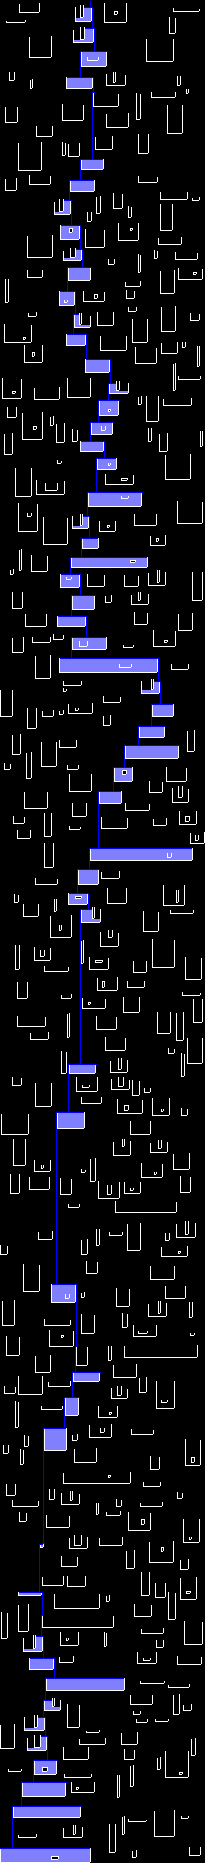
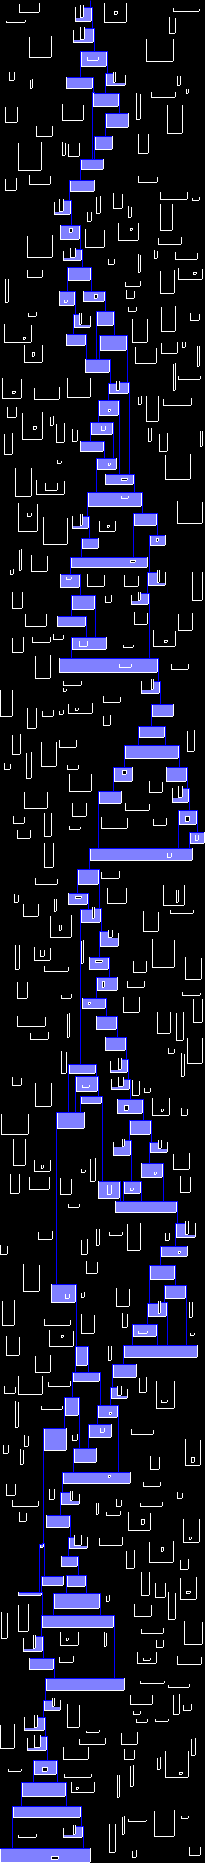
Fix bug preventing new sources from being added

diff --git a/d17.py b/d17.py
@@ -101,7 +101,7 @@ def count_water(state):
             else:
                 if down(l) not in state and down(l) not in stream:
                     sources.append(l)
-                elif down(r) not in state and down(r) not in stream:
+                if down(r) not in state and down(r) not in stream:
                     sources.append(r)
 
         settled = len(to_settle) > 0
